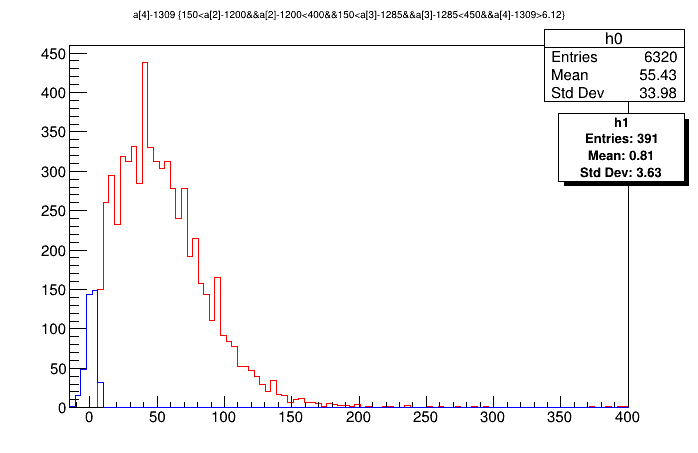
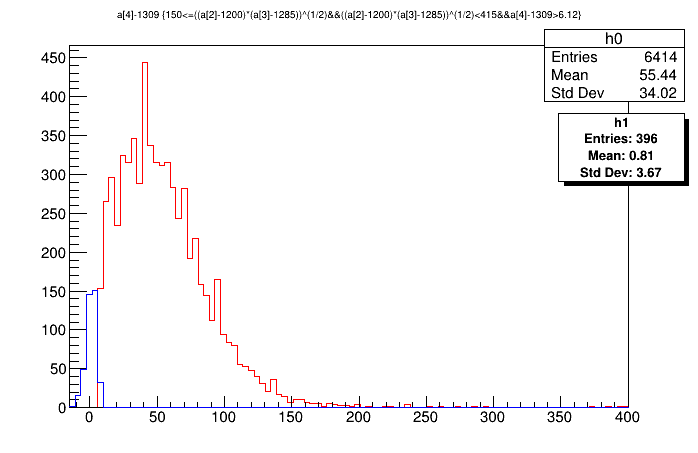
update

diff --git a/script/script_spr/spr015.C b/script/script_spr/spr015.C
@@ -47,16 +47,16 @@
 
     // T->Draw("a[6]-1079>>h0(100,-15,400)","150<=((a[2]-1200)*(a[3]-1285))^(1/2)&&((a[2]-1200)*(a[3]-1285))^(1/2)<415");
 
-    T->Draw("a[7]-1262>>h0(100,-15,400)","150<=((a[2]-1200)*(a[3]-1285))^(1/2)&&((a[2]-1200)*(a[3]-1285))^(1/2)<415");
+    // T->Draw("a[7]-1262>>h0(100,-15,400)","150<=((a[2]-1200)*(a[3]-1285))^(1/2)&&((a[2]-1200)*(a[3]-1285))^(1/2)<415");
 
     //陽電子一個のイベントかつペデスタルの標準誤差3倍以下を排除でADC分布を確認
-    // T->Draw("a[4]-1309>>h0(100,-15,400)","150<a[2]-1200&&a[2]-1200<400&&150<a[3]-1285&&a[3]-1285<450&&a[4]-1309>6.12");
+    // T->Draw("a[4]-1309>>h0(100,-15,400)","150<=((a[2]-1200)*(a[3]-1285))^(1/2)&&((a[2]-1200)*(a[3]-1285))^(1/2)<415&&a[4]-1309>6.12");
 
-    // T->Draw("a[5]-1375>>h0(100,-15,400)","150<a[2]-1200&&a[2]-1200<400&&150<a[3]-1285&&a[3]-1285<450&&a[5]-1375>3.21");
+    // T->Draw("a[5]-1375>>h0(100,-15,400)","150<=((a[2]-1200)*(a[3]-1285))^(1/2)&&((a[2]-1200)*(a[3]-1285))^(1/2)<415&&a[5]-1375>3.21");
 
-    // T->Draw("a[6]-1079>>h0(100,-15,400)","150<a[2]-1200&&a[2]-1200<400&&150<a[3]-1285&&a[3]-1285<450&&a[6]-1079>8.52");
+    // T->Draw("a[6]-1079>>h0(100,-15,400)","150<=((a[2]-1200)*(a[3]-1285))^(1/2)&&((a[2]-1200)*(a[3]-1285))^(1/2)<415&&a[6]-1079>8.52");
 
-    // T->Draw("a[7]-1262>>h0(100,-15,400)","150<a[2]-1200&&a[2]-1200<400&&150<a[3]-1285&&a[3]-1285<450&&a[7]-1262>4.71");
+    T->Draw("a[7]-1262>>h0(100,-15,400)","150<=((a[2]-1200)*(a[3]-1285))^(1/2)&&((a[2]-1200)*(a[3]-1285))^(1/2)<415&&a[7]-1262>4.71");
 
     //合計
     // T->Draw("a[4]-1309+a[5]-1375+a[6]-1079+a[7]-1262>>h0(100,-15,700)","150<a[2]-1200&&a[2]-1200<400&&150<a[3]-1285&&a[3]-1285<450");
@@ -74,13 +74,13 @@
     // T->Draw("((a[2]-1200)*(a[3]-1285))^(1/2)>>h1(200,100,500)","((a[2]-1200)*(a[3]-1285))^(1/2)>415","same hist");
 
     //ペデスタルを表示
-    // T->Draw("a[4]-1309>>h1(100,-15,400)","150<a[2]-1200&&a[2]-1200<400&&150<a[3]-1285&&a[3]-1285<450&&a[4]-1309<=6.12","same hist");
+    // T->Draw("a[4]-1309>>h1(100,-15,400)","150<=((a[2]-1200)*(a[3]-1285))^(1/2)&&((a[2]-1200)*(a[3]-1285))^(1/2)<415&&a[4]-1309<=6.12","same hist");
 
-    // T->Draw("a[5]-1375>>h1(100,-15,400)","150<a[2]-1200&&a[2]-1200<400&&150<a[3]-1285&&a[3]-1285<450&&a[5]-1375<=3.21","same hist");
+    // T->Draw("a[5]-1375>>h1(100,-15,400)","150<=((a[2]-1200)*(a[3]-1285))^(1/2)&&((a[2]-1200)*(a[3]-1285))^(1/2)<415&&a[5]-1375<=3.21","same hist");
 
-    // T->Draw("a[6]-1079>>h1(100,-15,400)","150<a[2]-1200&&a[2]-1200<400&&150<a[3]-1285&&a[3]-1285<450&&a[6]-1079<=8.52","same hist");
+    // T->Draw("a[6]-1079>>h1(100,-15,400)","150<=((a[2]-1200)*(a[3]-1285))^(1/2)&&((a[2]-1200)*(a[3]-1285))^(1/2)<415&&a[6]-1079<=8.52","same hist");
 
-    // T->Draw("a[7]-1262>>h1(100,-15,400)","150<a[2]-1200&&a[2]-1200<400&&150<a[3]-1285&&a[3]-1285<450&&a[7]-1262<=4.71","same hist");
+    // T->Draw("a[7]-1262>>h1(100,-15,400)","150<=((a[2]-1200)*(a[3]-1285))^(1/2)&&((a[2]-1200)*(a[3]-1285))^(1/2)<415&&a[7]-1262<=4.71","same hist");
 
 
     h1->SetLineColor(4);
@@ -89,14 +89,14 @@
 
     
     // ヒストグラムの統計情報を取得して描画
-    // TPaveText *stats_h1 = new TPaveText(0.8, 0.6, 0.98, 0.75, "NDC");
-    // stats_h1->SetTextSize(0.03);
-    // stats_h1->AddText("h1");
-    // stats_h1->AddText(Form("Entries: %.0f", h1->GetEntries()));
-    // stats_h1->AddText(Form("Mean: %.2f", h1->GetMean()));
-    // stats_h1->AddText(Form("Std Dev: %.2f", h1->GetStdDev()));
-    // stats_h1->SetFillColor(0);
-    // stats_h1->Draw();
+    TPaveText *stats_h1 = new TPaveText(0.8, 0.6, 0.98, 0.75, "NDC");
+    stats_h1->SetTextSize(0.03);
+    stats_h1->AddText("h1");
+    stats_h1->AddText(Form("Entries: %.0f", h1->GetEntries()));
+    stats_h1->AddText(Form("Mean: %.2f", h1->GetMean()));
+    stats_h1->AddText(Form("Std Dev: %.2f", h1->GetStdDev()));
+    stats_h1->SetFillColor(0);
+    stats_h1->Draw();
 
 
     // c1->SetLogy();
@@ -106,7 +106,7 @@
 //     c1->Print("C:/Users/posei/Desktop/tokken/winscp/data_test/output/hal008_009_a[3].pdf");
     // c1->Print("C:/Users/niiyama/Desktop/Kyotaro_Nishi/root/root_analysis/output/output_don/don025(red)-033(blue)-036(green)-039(black)-030(pink)_a[0].png");
     // c1->Print("C:/Users/niiyama/Desktop/Kyotaro_Nishi/root/root_analysis/output/output_don/don060(red)-053(blue)-054(green)-055(black)_a[0].png");
-    // c1->Print("C:/Users/niiyama/Desktop/Kyotaro_Nishi/root/root_analysis/output/output_spr/spr015_a[7].png");
+    // c1->Print("C:/Users/niiyama/Desktop/Kyotaro_Nishi/root/root_analysis/output/output_spr/spr015_a[7]_separated.png");
 }
 
 #include <TF1.h>
